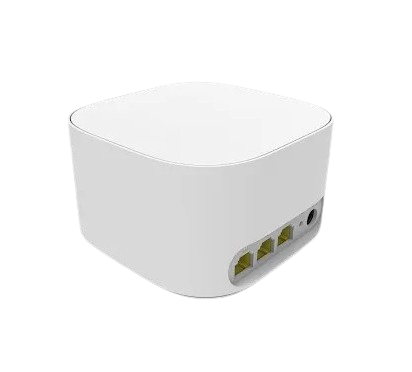
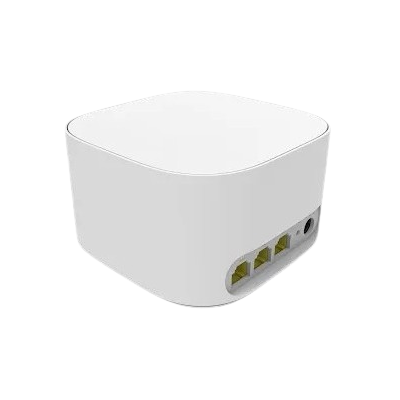
Update mesh images and improve mesh section carousel
Replaced mesh3.png and mesh4.png with updated images. Enhanced the WiFi Mesh section in index.html by adding an automatic image carousel with navigation dots, improving user interaction and visual presentation. Also made minor HTML formatting and alignment adjustments for better readability.

diff --git a/index.html b/index.html
@@ -32,7 +32,7 @@
   <!-- Leaflet JS (NUEVO) -->
   <script src="https://unpkg.com/leaflet@1.9.4/dist/leaflet.js"
     integrity="sha256-20nQCchB9co0qIjJZRGuk2/Z9VM+kNiyxNV1lvTlZBo=" crossorigin=""></script>
-    <link rel="stylesheet" href="script.js">
+  <link rel="stylesheet" href="script.js">
 
   <style>
     /* ================================== */
@@ -546,8 +546,7 @@
               alt="Usittel Logo" /></a>
         </div>
         <div class="nav-left desktop-only"><a href="#" class="logo"><img
-              src="assets/img/logos/usittel-logo_and_name.png"
-              alt="Usittel Logo" /></a>
+              src="assets/img/logos/usittel-logo_and_name.png" alt="Usittel Logo" /></a>
           <ul class="nav-links">
             <li><a href="#">Home</a></li>
             <li class="dropdown"><a href="#plans">Productos ▾</a>
@@ -578,8 +577,8 @@
               href="pages/mesh.html">WiFi Mesh</a><a href="pages/tv.html">TV</a>
           </div>
         </div>
-        <a href="pages/empresas.html">Empresas</a><a href="pages/contacto.html">Contáctanos</a><a href="pages/centro de ayuda.html"
-          class="nav-button-green">Centro de
+        <a href="pages/empresas.html">Empresas</a><a href="pages/contacto.html">Contáctanos</a><a
+          href="pages/centro de ayuda.html" class="nav-button-green">Centro de
           ayuda</a><a href="https://www.clientes.usittel.com.ar/" class="nav-button2">Autogestión</a>
       </div>
     </nav>
@@ -587,58 +586,60 @@
 
   <main>
     <!-- =========== HERO SECTION =========== -->
-    <section id="hero-container" class="relative flex items-center justify-center text-white text-center px-6" style="background-size: cover; min-height: calc(100vh - 0px);">
+    <section id="hero-container" class="relative flex items-center justify-center text-white text-center px-6"
+      style="background-size: cover; min-height: calc(100vh - 0px);">
       <canvas id="hero-canvas"></canvas>
       <div class="absolute inset-0 bg-black opacity-50"></div>
       <div class="hero-content relative z-10">
-      <img src="assets/img/logos/USITTEL_BLACK-removebg-preview.png"
-        alt="Usittel Logo" class="h-16 md:h-20 mx-auto mb-5">
-      <h1 class="text-4xl md:text-5xl font-extrabold leading-tight mb-5">La fibra óptica más rápida de Tandil.</h1>
-      <p class="text-lg md:text-xl text-gray-200 max-w-2xl mx-auto mb-10">Velocidad y confiabilidad para streaming, gaming y trabajo sin interrupciones.</p>
-      <div class="flex flex-col sm:flex-row justify-center items-center gap-4">
-        <a href="#plans" class="nav-button-green cta-button px-8 py-3 text-white"><b>Nuestros planes</b></a>
-        <a href="#coverage" class="nav-button2 cta-button px-8 py-3 text-white"><b>Verificar Cobertura</b></a>
-      </div>
+        <img src="assets/img/logos/USITTEL_BLACK-removebg-preview.png" alt="Usittel Logo"
+          class="h-16 md:h-20 mx-auto mb-5">
+        <h1 class="text-4xl md:text-5xl font-extrabold leading-tight mb-5">La fibra óptica más rápida de Tandil.</h1>
+        <p class="text-lg md:text-xl text-gray-200 max-w-2xl mx-auto mb-10">Velocidad y confiabilidad para streaming,
+          gaming y trabajo sin interrupciones.</p>
+        <div class="flex flex-col sm:flex-row justify-center items-center gap-4">
+          <a href="#plans" class="nav-button-green cta-button px-8 py-3 text-white"><b>Nuestros planes</b></a>
+          <a href="#coverage" class="nav-button2 cta-button px-8 py-3 text-white"><b>Verificar Cobertura</b></a>
+        </div>
       </div>
     </section>
     <script>
       // HERO: Imagen aleatoria de fondo
       document.addEventListener('DOMContentLoaded', function () {
-      const heroImages = [
-        'assets/img/hero/hero1.jpg',
-        'assets/img/hero/hero2.jpg',
-        'assets/img/hero/hero3.jpg'
-      ];
-      const randomImg = heroImages[Math.floor(Math.random() * heroImages.length)];
-      const heroContainer = document.getElementById('hero-container');
-      if (heroContainer) {
-        heroContainer.style.backgroundImage = `url('${randomImg}')`;
-      }
-
-      // Ajustar altura del hero para ocupar el 100vh menos la altura del nav
-      function setHeroHeight() {
-        const nav = document.querySelector('.navbar-section');
-        const hero = document.getElementById('hero-container');
-        if (nav && hero) {
-        const navHeight = nav.offsetHeight;
-        hero.style.minHeight = `calc(100vh - ${navHeight}px)`;
+        const heroImages = [
+          'assets/img/hero/hero1.jpg',
+          'assets/img/hero/hero2.jpg',
+          'assets/img/hero/hero3.jpg'
+        ];
+        const randomImg = heroImages[Math.floor(Math.random() * heroImages.length)];
+        const heroContainer = document.getElementById('hero-container');
+        if (heroContainer) {
+          heroContainer.style.backgroundImage = `url('${randomImg}')`;
         }
-      }
-      setHeroHeight();
-      window.addEventListener('resize', setHeroHeight);
+
+        // Ajustar altura del hero para ocupar el 100vh menos la altura del nav
+        function setHeroHeight() {
+          const nav = document.querySelector('.navbar-section');
+          const hero = document.getElementById('hero-container');
+          if (nav && hero) {
+            const navHeight = nav.offsetHeight;
+            hero.style.minHeight = `calc(100vh - ${navHeight}px)`;
+          }
+        }
+        setHeroHeight();
+        window.addEventListener('resize', setHeroHeight);
       });
     </script>
 
 
-    <!-- =========== Services Section (ORDEN 1) =========== -->
+    <!-- =========== Services Section =========== -->
     <section class="py-16 md:py-24 bg-white" id="tv-section">
       <div class="container mx-auto px-6">
         <div class="text-center mb-12">
           <h2 class="text-3xl md:text-4xl font-bold text-gray-900">Una conexión pensada para vos</h2>
           <p class="text-lg text-gray-600 mt-2">Todo lo que necesitás para tu hogar en un solo lugar.</p>
         </div>
-        
-         
+
+
         <div class="grid grid-cols-1 md:grid-cols-3 gap-8">
           <div class="bg-gray-50 p-8 rounded-xl text-center hover-glow-card">
             <div class="text-blue-600 mb-4"><i class="fas fa-tv fa-3x"></i></div>
@@ -653,7 +654,7 @@
             <p class="text-gray-600">Navegá a la velocidad de la luz con planes simétricos para trabajar, estudiar y
               disfrutar del mejor entretenimiento.</p>
           </div>
-         
+
           <div class="bg-gray-50 p-8 rounded-xl text-center hover-glow-card">
             <div class="text-blue-600 mb-4"><i class="fas fa-wifi fa-3x"></i></div>
             <h3 class="text-2xl font-bold mb-3">WiFi Mesh</h3>
@@ -725,7 +726,7 @@
           </div>
         </div>
 
-        <!-- Contenedor para la vista especial "Solo TV" (ACTUALIZADO) -->
+        <!-- Contenedor para la vista especial "Solo TV" -->
         <div id="solo-tv-view" class="hidden max-w-7xl mx-auto">
           <div class="grid grid-cols-1 lg:grid-cols-5 gap-8 lg:gap-12 items-start">
             <!-- Columna Izquierda: Plan TV -->
@@ -738,7 +739,8 @@
               <div class="space-y-4">
                 <!-- Card Pack Fútbol -->
                 <div class="bg-white rounded-xl p-4 flex items-center gap-6 hover-glow-card">
-                  <b class="h-20 w-20 rounded-lg object-contain flex-shrink-0" style="font-size: x-large; text-align: justify;">PACK FUTBOL</b>
+                  <b class="h-20 w-20 rounded-lg object-contain flex-shrink-0"
+                    style="font-size: x-large; text-align: justify;">PACK FUTBOL</b>
                   <div class="text-left">
                     <h4 class="font-bold text-gray-900">Pack Fútbol</h4>
                     <p class="text-sm text-gray-600">Viví todos los partidos de la liga argentina.</p>
@@ -784,57 +786,103 @@
         <div id="plan-info-button-container" class="text-center mt-10"></div>
       </div>
     </section>
+
     <!-- =========== WiFi Mesh Section (ORDEN 3) =========== -->
     <section class="py-12 md:py-20 bg-white text-[0.9rem] md:text-[0.95rem]" id="mesh">
       <div class="container mx-auto px-4 md:px-5" style="max-width: 1100px;">
-        <div class="grid grid-cols-1 lg:grid-cols-2 gap-8 items-center">
-          <div>
-            <h2 class="text-2xl md:text-3xl font-bold text-gray-900">¿Problemas de cobertura WiFi en tu casa?</h2>
-            <p class="text-base md:text-lg text-gray-600 mt-3 mb-5">Con la tecnología de <span class="font-bold">USITTEL
-                MESH</span>
-            <div
-              class="bg-gray-50 p-5 rounded-lg hover-glow-card transition-transform transition-shadow duration-300 hover:-translate-y-1 hover:shadow-lg"
-              style="border-color: #30a172; box-shadow: 0 10px 25px -5px rgba(48, 161, 114, 0.15), 0 8px 10px -6px rgba(48, 161, 114, 0.15);">
-              <h3 class="text-xl md:text-2xl font-bold">Plan USITTEL MESH</h3>
-              <p class="text-3xl md:text-4xl font-extrabold text-gray-900 my-3">$5.499 <span
-                  class="text-base md:text-lg font-normal text-gray-500">/mes por equipo</span></p>
-              <ul class="space-y-2 text-gray-600 mb-5">
-                <li class="flex items-center"><i class="fas fa-check-circle text-green-500 mr-2"></i>Innovación:
-                  tecnología MESH de última generación.</li>
-                <li class="flex items-center"><i class="fas fa-check-circle text-green-500 mr-2"></i>Flexibilidad: se
-                  adapta a tu hogar (hasta 4 equipos).</li>
-                <li class="flex items-center"><i class="fas fa-check-circle text-green-500 mr-2"></i>Conexión confiable:
-                  ideal para casas con muchos dispositivos.</li>
-              </ul>
-           <a href="https://wa.me/5492494060345"
-                            target="_blank"
-                            rel="noopener"
-                            class="w-full text-center mt-auto bg-blue-500 text-white font-semibold py-3 rounded-lg hover:bg-green-600 cta-button flex items-center justify-center gap-2">
-                            <i class="fab fa-whatsapp"></i> Consultar
-                        </a>
-            </div>
-          </div>
-          <div class="w-full max-w-sm md:max-w-md mx-auto">
-            <div class="mesh-carousel-container rounded-large">
-              <div class="mesh-slide active"><img src="assets/img/mesh/mesh1.png" class="rounded-xl w-full"
-                  alt="Equipo WiFi Mesh 1"></div>
-              <div class="mesh-slide"><img src="assets/img/mesh/mesh2.png" class="rounded-xl w-full"
-                  alt="Equipo WiFi Mesh 2"></div>
-              <div class="mesh-slide"><img src="assets/img/mesh/mesh3.png" class="rounded-xl w-full"
-                  alt="Equipo WiFi Mesh 3"></div>
-              <div class="mesh-slide"><img src="assets/img/mesh/mesh4.png" class="rounded-xl w-full"
-                  alt="Equipo WiFi Mesh 4"></div>
-            </div>
-            <div class="mesh-dots-container" id="mesh-dots-container"></div>
-          </div>
+      <div class="grid grid-cols-1 lg:grid-cols-2 gap-8 items-center">
+        <div>
+        <h2 class="text-2xl md:text-3xl font-bold text-gray-900">¿Problemas de cobertura WiFi en tu casa?</h2>
+        <p class="text-base md:text-lg text-gray-600 mt-3 mb-5">Con la tecnología de <span class="font-bold">USITTEL
+          MESH</span>
+        <div
+          class="bg-gray-50 p-5 rounded-lg hover-glow-card transition-transform transition-shadow duration-300 hover:-translate-y-1 hover:shadow-lg"
+          style="border-color: #30a172; box-shadow: 0 10px 25px -5px rgba(48, 161, 114, 0.15), 0 8px 10px -6px rgba(48, 161, 114, 0.15);">
+          <h3 class="text-xl md:text-2xl font-bold">Plan USITTEL MESH</h3>
+          <p class="text-3xl md:text-4xl font-extrabold text-gray-900 my-3">$5.499 <span
+            class="text-base md:text-lg font-normal text-gray-500">/mes por equipo</span></p>
+          <ul class="space-y-2 text-gray-600 mb-5">
+          <li class="flex items-center"><i class="fas fa-check-circle text-green-500 mr-2"></i>Innovación:
+            tecnología MESH de última generación.</li>
+          <li class="flex items-center"><i class="fas fa-check-circle text-green-500 mr-2"></i>Flexibilidad: se
+            adapta a tu hogar (hasta 4 equipos).</li>
+          <li class="flex items-center"><i class="fas fa-check-circle text-green-500 mr-2"></i>Conexión confiable:
+            ideal para casas con muchos dispositivos.</li>
+          </ul>
+          <a href="https://wa.me/5492494060345" target="_blank" rel="noopener"
+          class="w-full text-center mt-auto bg-blue-500 text-white font-semibold py-3 rounded-lg hover:bg-green-600 cta-button flex items-center justify-center gap-2">
+          <i class="fab fa-whatsapp"></i> Consultar
+          </a>
         </div>
-        <!-- Enlace agregado debajo de la sección Mesh -->
-        <div class="text-center mt-10">
-          <a href="pages/mesh.html"
-            class="inline-block text-blue-600 font-semibold py-2 px-4 rounded-lg hover:bg-blue-100 transition-colors text-sm md:text-base">Descubrí
-            cómo la tecnología Mesh se integra con nuestra red de Fibra Óptica <span aria-hidden="true">→</span></a>
+        </div>
+        <div class="w-full max-w-sm md:max-w-md mx-auto">
+        <div class="mesh-carousel-container rounded-large">
+          <div class="mesh-slide active"><img src="assets/img/mesh/mesh1.png" class="rounded-xl w-full"
+            alt="Equipo WiFi Mesh 1"></div>
+          <div class="mesh-slide"><img src="assets/img/mesh/mesh2.png" class="rounded-xl w-full"
+            alt="Equipo WiFi Mesh 2"></div>
+          <div class="mesh-slide"><img src="assets/img/mesh/mesh3.png" class="rounded-xl w-full"
+            alt="Equipo WiFi Mesh 3"></div>
+          <div class="mesh-slide"><img src="assets/img/mesh/mesh4.png" class="rounded-xl w-full"
+            alt="Equipo WiFi Mesh 4"></div>
+        </div>
+        <div class="mesh-dots-container" id="mesh-dots-container"></div>
         </div>
       </div>
+      <!-- Enlace agregado debajo de la sección Mesh -->
+      <div class="text-center mt-10">
+        <a href="pages/mesh.html"
+        class="inline-block text-blue-600 font-semibold py-2 px-4 rounded-lg hover:bg-blue-100 transition-colors text-sm md:text-base">Descubrí
+        cómo la tecnología Mesh se integra con nuestra red de Fibra Óptica <span aria-hidden="true">→</span></a>
+      </div>
+      </div>
+      <script>
+      // Carrousel automático para Mesh
+      document.addEventListener('DOMContentLoaded', function () {
+        const meshSlides = document.querySelectorAll('.mesh-slide');
+        const meshDotsContainer = document.getElementById('mesh-dots-container');
+        let currentMeshSlide = 0;
+        let meshInterval;
+
+        function createMeshDots() {
+        if (!meshDotsContainer) return;
+        meshDotsContainer.innerHTML = '';
+        meshSlides.forEach((_, i) => {
+          const dot = document.createElement('button');
+          dot.classList.add('mesh-dot');
+          if (i === 0) dot.classList.add('active');
+          dot.addEventListener('click', () => {
+          showMeshSlide(i);
+          resetMeshInterval();
+          });
+          meshDotsContainer.appendChild(dot);
+        });
+        }
+
+        function showMeshSlide(n) {
+        if (!meshSlides.length) return;
+        meshSlides[currentMeshSlide].classList.remove('active');
+        meshDotsContainer.children[currentMeshSlide].classList.remove('active');
+        currentMeshSlide = (n + meshSlides.length) % meshSlides.length;
+        meshSlides[currentMeshSlide].classList.add('active');
+        meshDotsContainer.children[currentMeshSlide].classList.add('active');
+        }
+
+        function nextMeshSlide() {
+        showMeshSlide(currentMeshSlide + 1);
+        }
+
+        function resetMeshInterval() {
+        clearInterval(meshInterval);
+        meshInterval = setInterval(nextMeshSlide, 1500);
+        }
+
+        if (meshSlides.length > 1) {
+        createMeshDots();
+        meshInterval = setInterval(nextMeshSlide, 1500);
+        }
+      });
+      </script>
     </section>
 
     <!-- =========== Network & Coverage Section (ORDEN 4 - UNIFICADA Y MODIFICADA) =========== -->
@@ -1058,8 +1106,8 @@
         <div>
           <h4 class="font-bold mb-4 uppercase">Legal</h4>
           <ul>
-            <li class="mb-2"><a href="pages/terminos_y_condiciones.html"
-                class="text-gray-300 hover:text-white">Términos y condiciones</a></li>
+            <li class="mb-2"><a href="pages/terminos_y_condiciones.html" class="text-gray-300 hover:text-white">Términos
+                y condiciones</a></li>
             <li class="mb-2"><a href="https://servicios.infoleg.gob.ar/infolegInternet/anexos/0-4999/638/texact.htm"
                 class="text-gray-300 hover:text-white">Defensa del consumidor</a></li>
             <li class="mb-2"><a href="https://www.argentina.gob.ar/sites/default/files/11186_2012_anexo_i.pdf"
